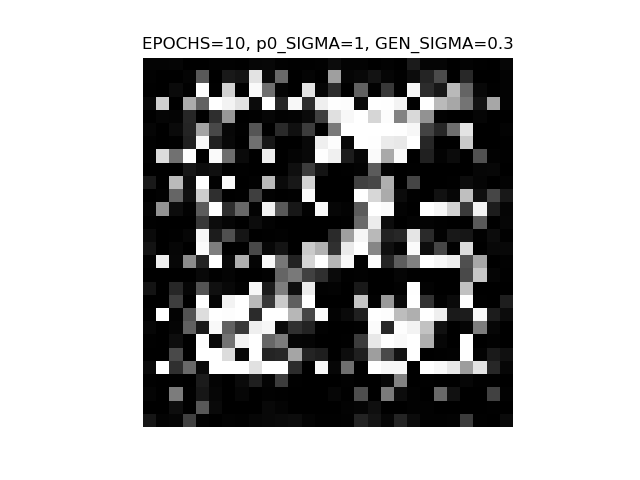
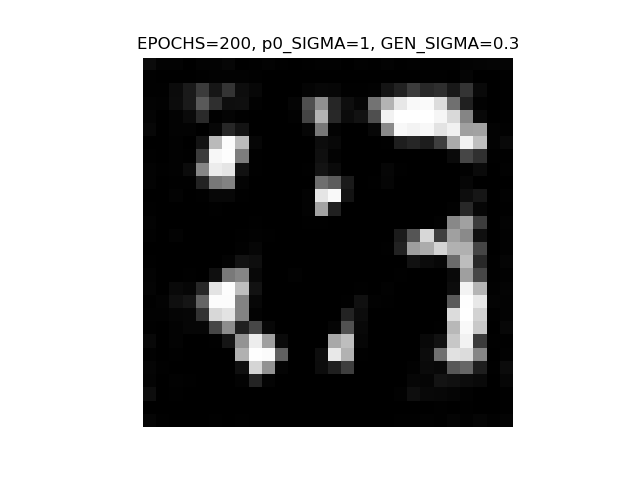
Updated logbook, trained for longer

Changed region(s): [[0.2188, 0.0625, 0.8125, 0.9062], [0.7188, 0.8438, 0.75, 0.9062], [0.6562, 0.8125, 0.7188, 0.8438]]

diff --git a/main.py b/main.py
@@ -21,8 +21,8 @@ from src.utils.diagnostics import plot_hist, plot_pdf
 device = "cuda" if torch.cuda.is_available() else "cpu"
 
 # Hyperparameters
-NUM_EPOCHS = 10
-BATCH_SIZE = 256
+NUM_EPOCHS = 200
+BATCH_SIZE = 32
 
 Z_SAMPLES = 100 # Size of latent Z vector
 EMB_OUT_SIZE = 1 # Size of output of EBM
